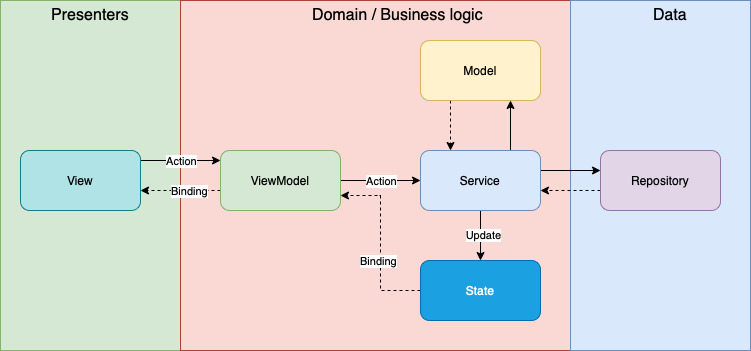
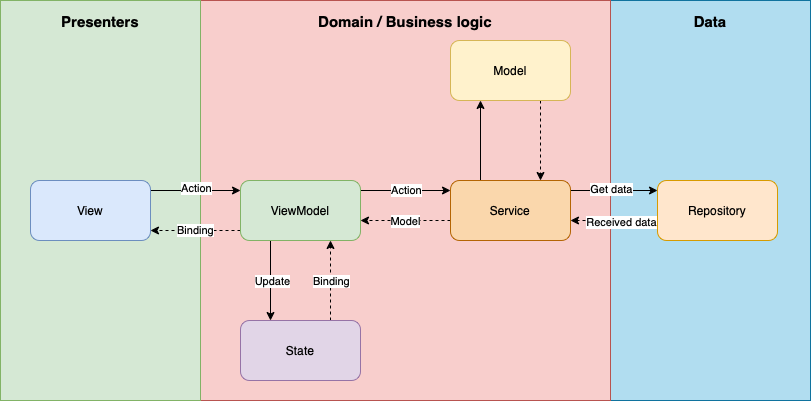
scheme and typo updates

diff --git a/README.md b/README.md
@@ -4,13 +4,13 @@ A demo project which is based on SwiftUI and build with MVVM and Clear Architect
 
 The app uses https://www.themoviedb.org REST API to get the data about movies
 
-## MVVM + [Clean Architecture](https://blog.cleancoder.com/uncle-bob/2012/08/13/the-clean-architecture.html)
+## MVVM + [The Clean Architecture](https://blog.cleancoder.com/uncle-bob/2012/08/13/the-clean-architecture.html)
 
 ## Description
 
 
-This app has two screens. The main one is Popular Movie list which fetchs the data from https://api.themoviedb.org `GET /movie/popular` and display the list of items. The second screen is details of movie which gets `movieId` from the main screen then fetch the data from `GET
-/movie/{movie_id}` and display the details
+This app has two screens. The main one is Popular Movie list screen which fetches the data from https://api.themoviedb.org `GET /movie/popular` endpoint and displays the list of movie items. The second screen displays the details of selected movie which receives `movieId` from the main screen then fetches the data from `GET
+/movie/{movieId}` endpoint and displays the details
 
 ## Architecture Overview
 
